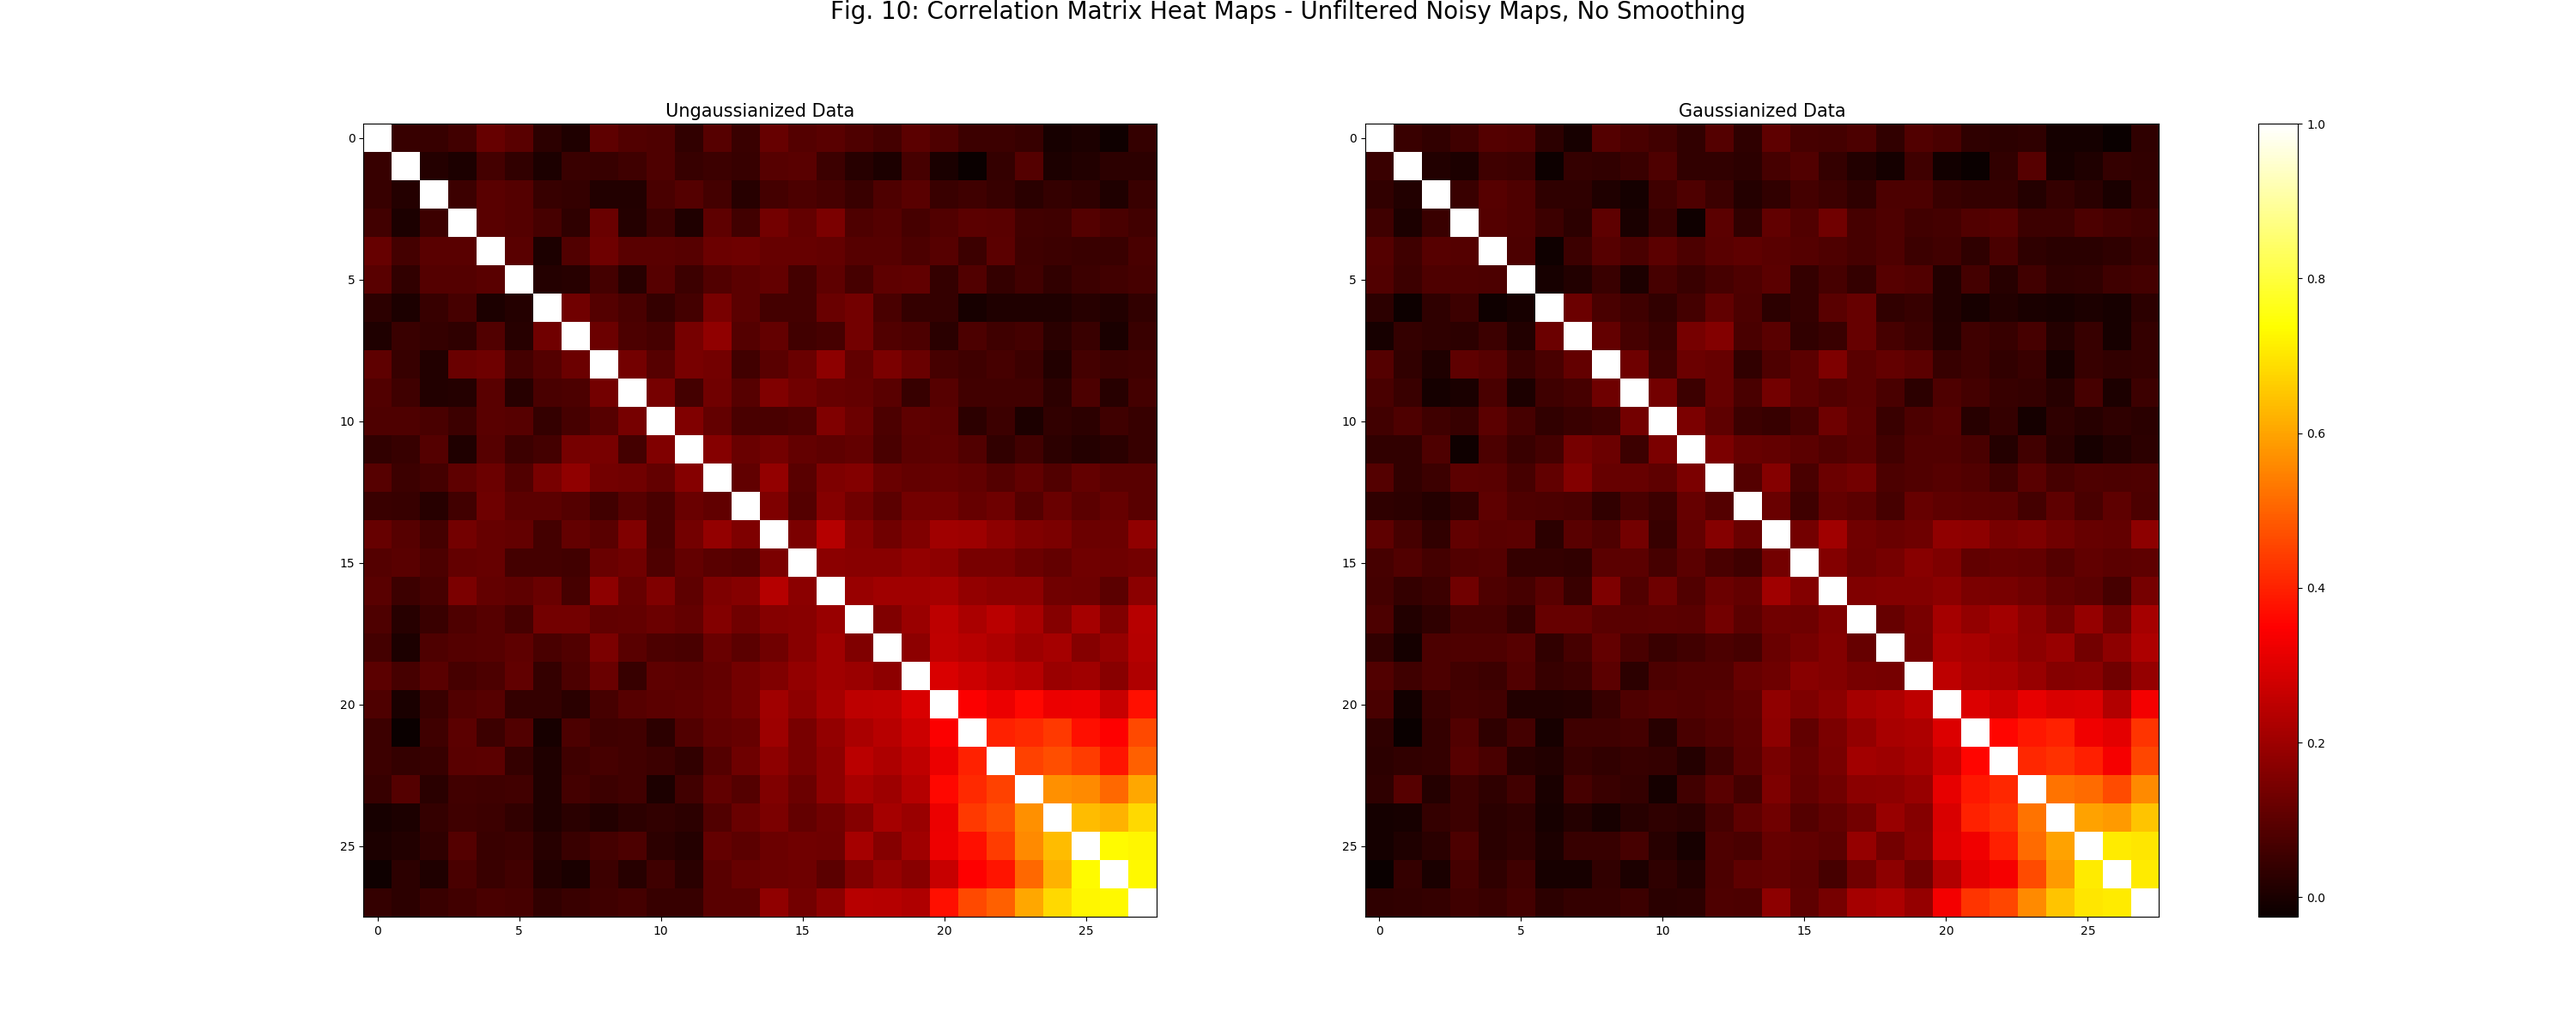
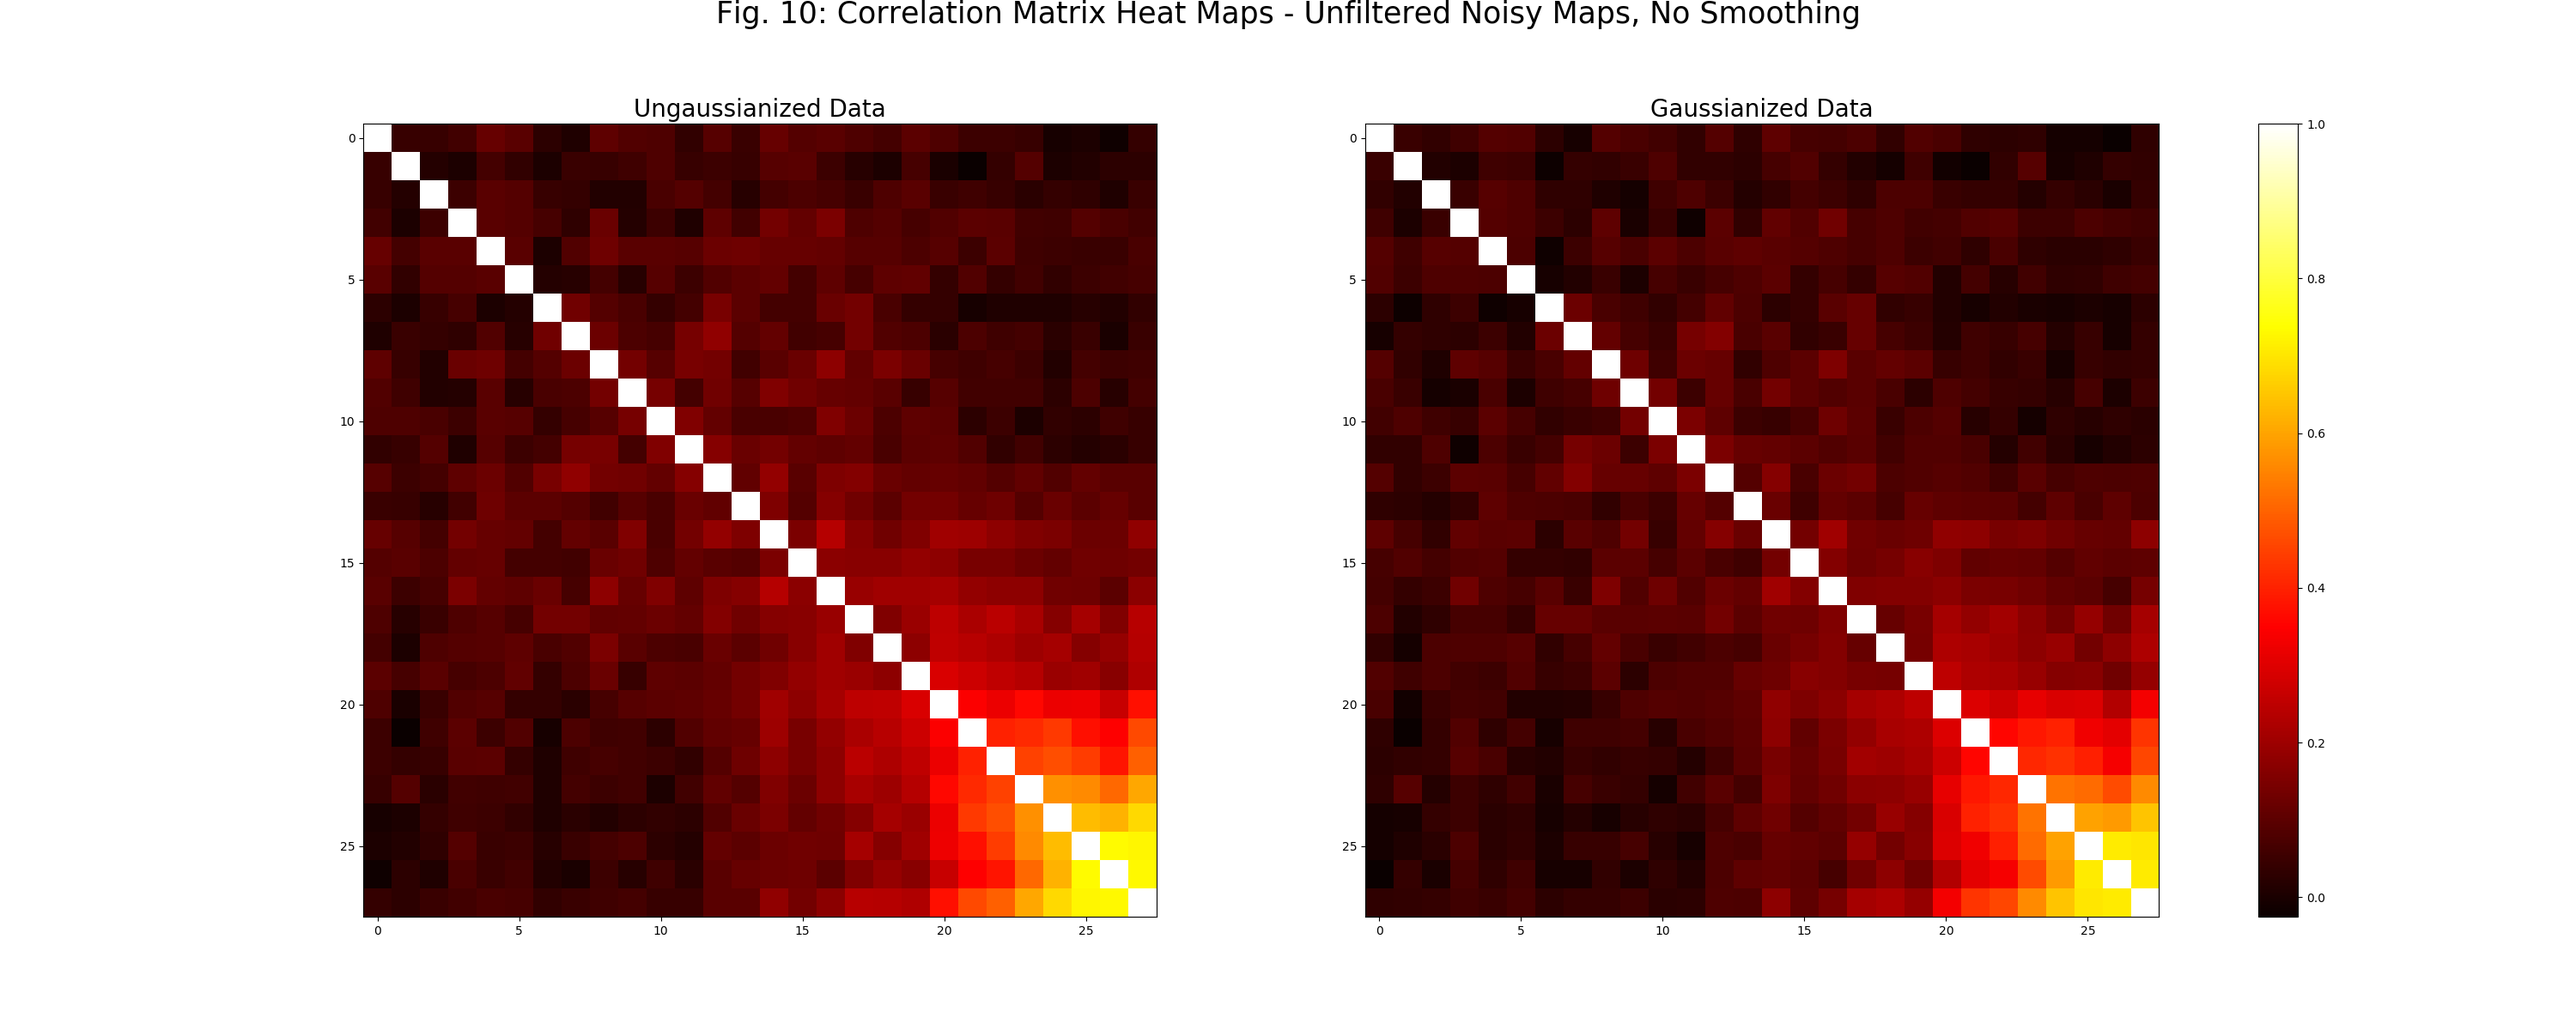
format

Changed region(s): [[0.279, 0.0, 0.713, 0.0308], [0.651, 0.0925, 0.744, 0.1233], [0.248, 0.0925, 0.341, 0.1233]]

diff --git a/Parallel Gaussianization/Noisy Maps/gauss_SNR_nois.py b/Parallel Gaussianization/Noisy Maps/gauss_SNR_nois.py
@@ -174,12 +174,12 @@ correlgauss = corr_mat(covargauss)
 fig2, (ax1, ax2) = plt.subplots(nrows=1, ncols=2, figsize = (30, 12))
 axlist = [ax1, ax2]
 
-fig2.suptitle("Fig. 10: Correlation Matrix Heat Maps - Unfiltered Noisy Maps, No Smoothing", fontsize = "20", y = 1)
+fig2.suptitle("Fig. 10: Correlation Matrix Heat Maps - Unfiltered Noisy Maps, No Smoothing", fontsize = "25", y = 1)
 first = ax1.imshow(np.array(correl), cmap = 'hot', vmin = -0.025, vmax = 1.0)
-ax1.set_title('Ungaussianized Data', fontsize = "15")
+ax1.set_title('Ungaussianized Data', fontsize = "20")
 
 ax2.imshow(np.array(correlgauss), cmap = 'hot', vmin = -0.025, vmax = 1.0)
-ax2.set_title('Gaussianized Data', fontsize = "15")
+ax2.set_title('Gaussianized Data', fontsize = "20")
 
 
 fig2.colorbar(first, ax=axlist, fraction=0.03)
